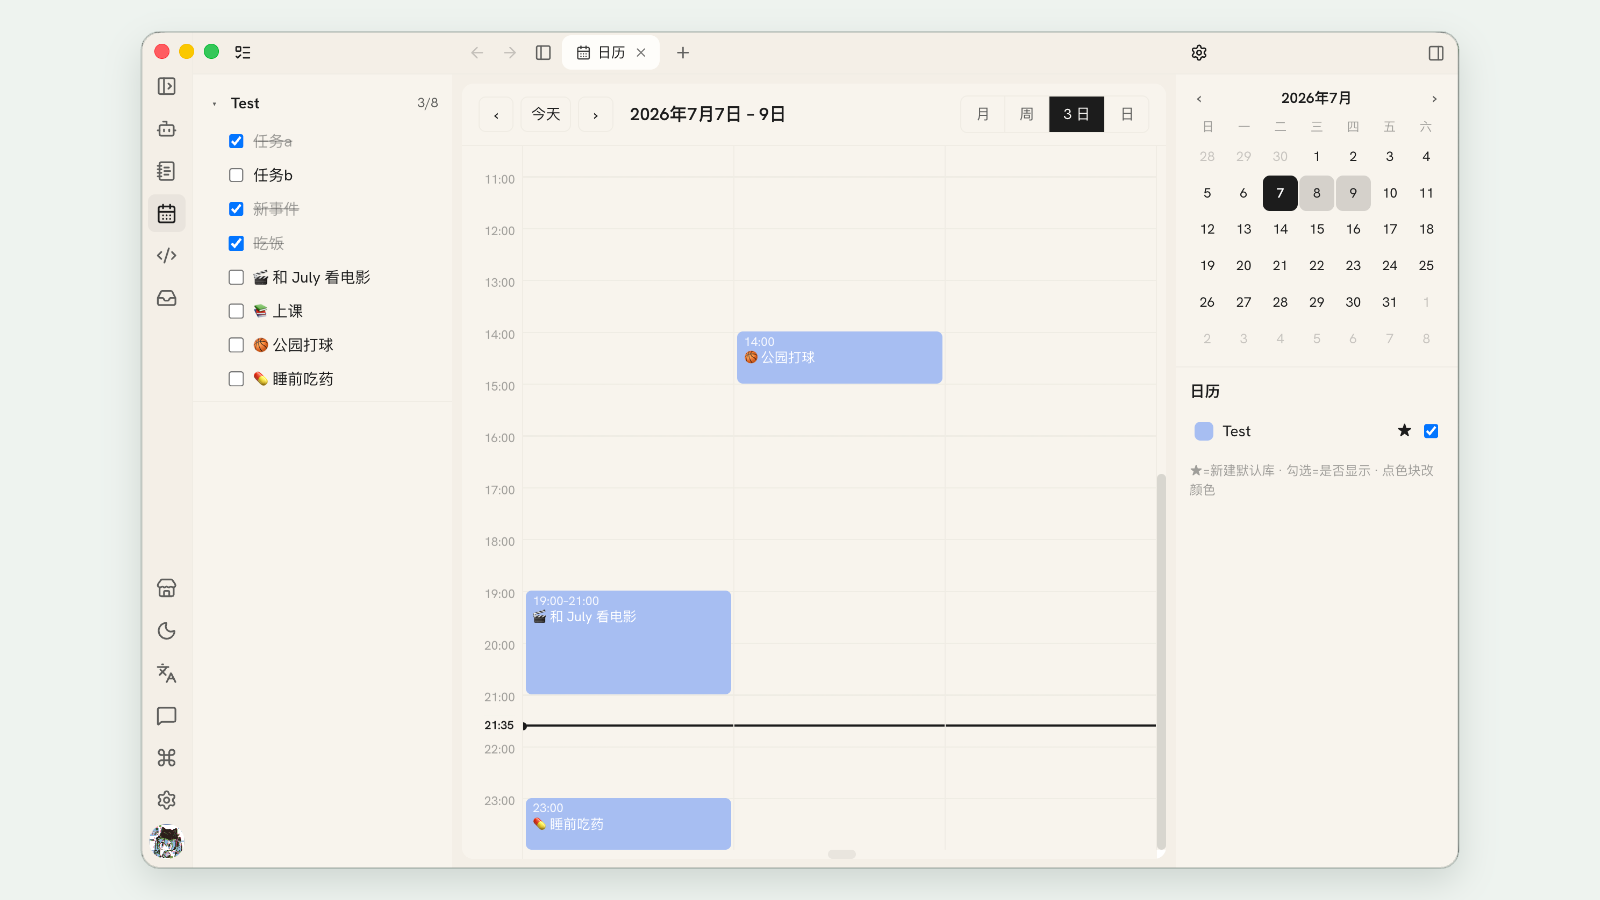
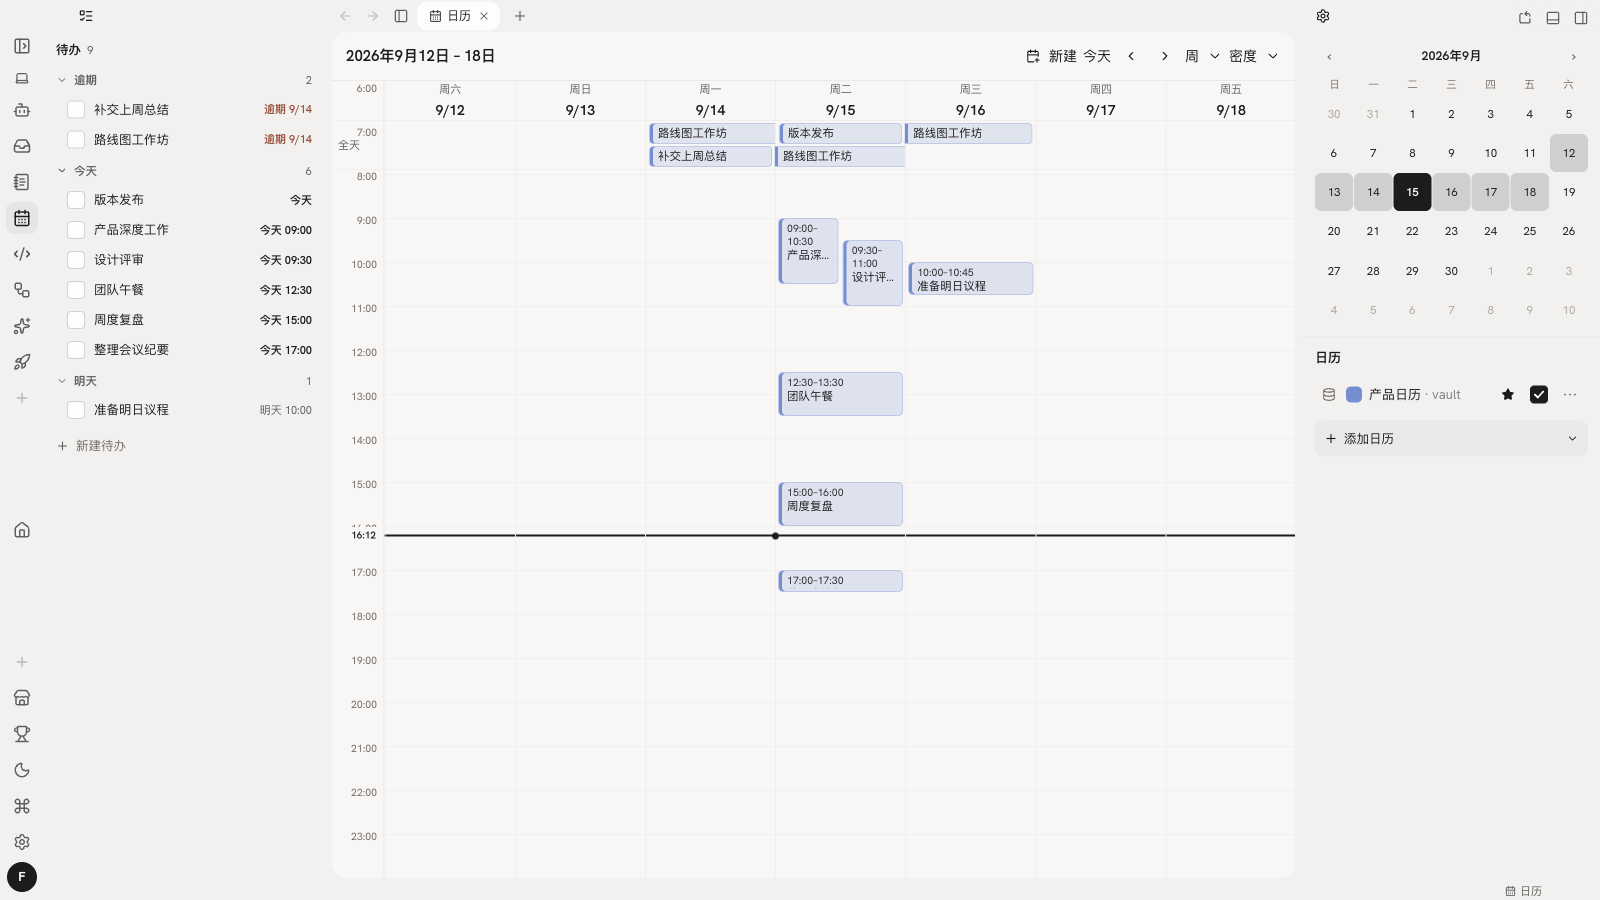
docs: refresh showcase from v2.10.4

diff --git a/.github/assets/showcase/README.md b/.github/assets/showcase/README.md
@@ -1,16 +1,24 @@
 # Showcase assets / 展示素材
 
-These assets support the English and Chinese repository READMEs and GitHub repository presentation. Product screenshots and demonstration data are described separately.
+These assets support the English and Chinese repository READMEs and GitHub repository presentation.
 
-这些素材用于中英文 README 与 GitHub 仓库展示。桌面截图和样例数据均在展示处注明，不表示所有界面来自同一个版本。
+这些素材用于中英文 README 与 GitHub 仓库展示。
+
+The three product screenshots were captured from a clean Forsion Desktop **v2.10.4** build at source commit [`edfd128259535ad778fdc964ddcb049cca3603f1`](https://github.com/Changan-Su/Forsion/commit/edfd128259535ad778fdc964ddcb049cca3603f1). Each capture ran the real Electron renderer against an isolated public fixture. No personal workspace data or live model call was used. The screenshots have no crop, frame, matte, or colour treatment.
+
+三张产品截图均来自 Forsion Desktop **v2.10.4** 的干净构建，对应源码提交 [`edfd128259535ad778fdc964ddcb049cca3603f1`](https://github.com/Changan-Su/Forsion/commit/edfd128259535ad778fdc964ddcb049cca3603f1)。截图运行真实 Electron 渲染层并使用隔离的公开夹具，不含个人工作区数据，也没有调用线上模型。截图未裁边、加框、铺底或调色。
 
 | Asset / 素材 | Source / 来源 |
 | --- | --- |
-| `workbench.png` | Desktop capture from `Forsion-Website/assets/screenshots/coding.png`, placed on a clean 1600 × 900 presentation canvas. The crop removes desktop pixels outside the app window without changing the UI. / 来自原官网的真实桌面截图；仅去除应用窗口外的桌面杂边，并放入 1600 × 900 展示画布，界面内容未改动。 |
-| `calendar.png` | Desktop capture from `Forsion-Website/assets/screenshots/calendar.png`, cleaned and framed on the same 1600 × 900 presentation canvas. / 来自原官网的真实日历截图；仅清理窗口外杂边，并使用同一 1600 × 900 展示画布。 |
-| `notes.png` | Production `UnifiedPage` renderer at Genesis source commit `172d9bae`, using the public fixture in `docs/showcase/note-sample.md`, presented on the same 1600 × 900 canvas. / 真实笔记编辑器渲染的公开样例；不是真实用户资料或一次 AI 执行的产出。 |
-| `logo.svg` | Existing Forsion logo from `Forsion-Website/assets/Forsion-LOGO3.svg`. / 复用现有扶桑标志。 |
-| `social-preview.png` | Lossless 1280 × 640 browser-canvas export of `docs/showcase/social-preview.html`; the complete product frame stays inside the safe area. / `docs/showcase/social-preview.html` 的无损画布导出；产品截图完整位于安全区内。 |
+| `workbench.png` | Current Coding Studio captured through Electron's native `BrowserWindow.capturePage()`, with a public Reading room project and sample conversation. / 当前编码工作室的 Electron 原生窗口截图，使用公开的 Reading room 项目与样例对话。 |
+| `notes.png` | Current Note workspace captured in Electron with the public Product research Markdown fixture. / 当前 Note 工作区的 Electron 截图，使用公开的 Product research Markdown 夹具。 |
+| `calendar.png` | Current Calendar workspace captured in Electron with an isolated public date and database fixture. / 当前日历工作区的 Electron 截图，使用隔离的公开日期与多维表夹具。 |
+| `logo.svg` | Existing Forsion logo from this repository's `desktop/frontend/public/Forsion-LOGO3.svg`. / 复用本仓库已有的扶桑标志。 |
+| `social-preview.png` | 1280 × 640 designed browser-canvas composition from `docs/showcase/social-preview.html`, using the current `workbench.png`. / `docs/showcase/social-preview.html` 生成的 1280 × 640 设计合成图，产品画面来自当前 `workbench.png`。 |
+
+Machine-readable dimensions, hashes, capture methods, and source provenance are recorded in [`manifest.json`](./manifest.json).
+
+尺寸、哈希、截图方式与源码来源记录在可机器读取的 [`manifest.json`](./manifest.json) 中。
 
 For GitHub Social Preview, upload `social-preview.png` in the repository settings.
 

diff --git a/README.md b/README.md
@@ -18,8 +18,8 @@ Bring agents, knowledge, and everyday work together.
 </div>
 
 <p align="center">
-  <img src="./.github/assets/showcase/workbench.png" alt="Coding Studio with an Agent conversation and a racing webpage preview" width="920" />
-  <br><sub>Real desktop capture: the Agent conversation and project preview share one workspace.</sub>
+  <img src="./.github/assets/showcase/workbench.png" alt="Coding Studio with a public Agent conversation and a live Reading room preview" width="920" />
+  <br><sub>Forsion Desktop v2.10.4, captured in Electron with public fixture data.</sub>
 </p>
 
 ## Three ways to use Forsion
@@ -29,8 +29,8 @@ Bring agents, knowledge, and everyday work together.
 Ask an Agent to turn source files into a local Markdown note, within the access you authorize. Continue editing and linking it in **Note (Amadeus)**.
 
 <p align="center">
-  <img src="./.github/assets/showcase/notes.png" alt="A sample note rendered in Forsion's Note editor" width="820" />
-  <br><sub>The real Note editor with public sample content.</sub>
+  <img src="./.github/assets/showcase/notes.png" alt="A public sample note in the Forsion Desktop v2.10.4 Note workspace" width="920" />
+  <br><sub>Forsion Desktop v2.10.4 Note workspace, captured with public fixture data.</sub>
 </p>
 
 ### Build a webpage from an idea
@@ -42,8 +42,8 @@ In **Coding Studio**, turn an idea into a local webpage project with an Agent. T
 View dates and to-dos from your note databases in **Calendar**. Configure authorized follow-up tasks in **Automation** and receive their results in **Inbox**.
 
 <p align="center">
-  <img src="./.github/assets/showcase/calendar.png" alt="Calendar showing dated records and tasks from the workspace" width="820" />
-  <br><sub>Real desktop capture: dates, to-dos, and database records in one view.</sub>
+  <img src="./.github/assets/showcase/calendar.png" alt="Forsion Desktop v2.10.4 Calendar showing public dated records and tasks" width="920" />
+  <br><sub>Forsion Desktop v2.10.4 Calendar, captured with public fixture data.</sub>
 </p>
 
 ## Download and start

diff --git a/README.zh-CN.md b/README.zh-CN.md
@@ -18,8 +18,8 @@
 </div>
 
 <p align="center">
-  <img src="./.github/assets/showcase/workbench.png" alt="编码工作室中的 Agent 对话与赛车网页预览" width="920" />
-  <br><sub>真实桌面截图：Agent 对话与项目预览位于同一个工作区。</sub>
+  <img src="./.github/assets/showcase/workbench.png" alt="编码工作室中的公开样例对话与 Reading room 实时预览" width="920" />
+  <br><sub>Forsion Desktop v2.10.4 的真实 Electron 截图，内容为公开样例数据。</sub>
 </p>
 
 ## 用 Forsion 完成三件事
@@ -29,8 +29,8 @@
 授权 Agent 读取资料，把它们整理成本地 Markdown 笔记。在 **Note（Amadeus 笔记）** 中继续编辑，补充双链。
 
 <p align="center">
-  <img src="./.github/assets/showcase/notes.png" alt="Forsion Note 编辑器中呈现的样例笔记" width="820" />
-  <br><sub>真实 Note 编辑器，内容使用公开样例数据。</sub>
+  <img src="./.github/assets/showcase/notes.png" alt="Forsion Desktop v2.10.4 Note 工作区中的公开样例笔记" width="920" />
+  <br><sub>Forsion Desktop v2.10.4 Note 工作区，内容为公开样例数据。</sub>
 </p>
 
 ### 从一个想法，做出可预览的网页
@@ -42,8 +42,8 @@
 在**日历**中汇总笔记多维表里的日期和待办。在**自动化**中配置并授权后续任务，让结果送到**收件箱**。
 
 <p align="center">
-  <img src="./.github/assets/showcase/calendar.png" alt="日历空间中来自工作区的日期与任务记录" width="820" />
-  <br><sub>真实桌面截图：日期、待办与多维表记录集中显示。</sub>
+  <img src="./.github/assets/showcase/calendar.png" alt="Forsion Desktop v2.10.4 日历中的公开日期与任务记录" width="920" />
+  <br><sub>Forsion Desktop v2.10.4 日历，内容为公开样例数据。</sub>
 </p>
 
 ## 下载与开始使用
